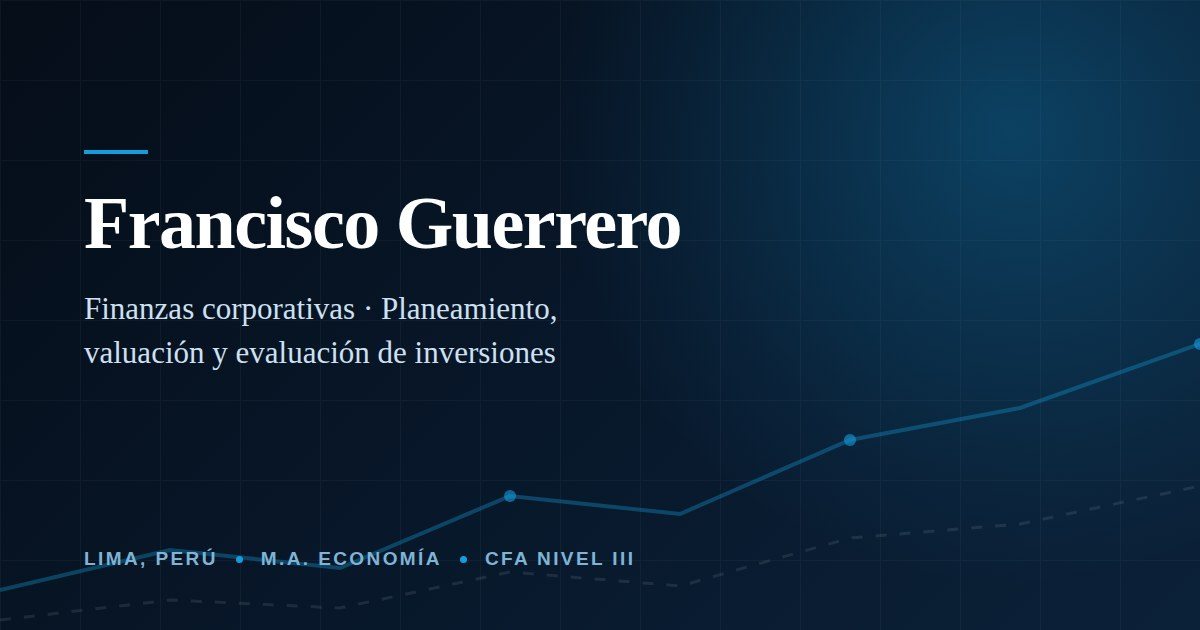
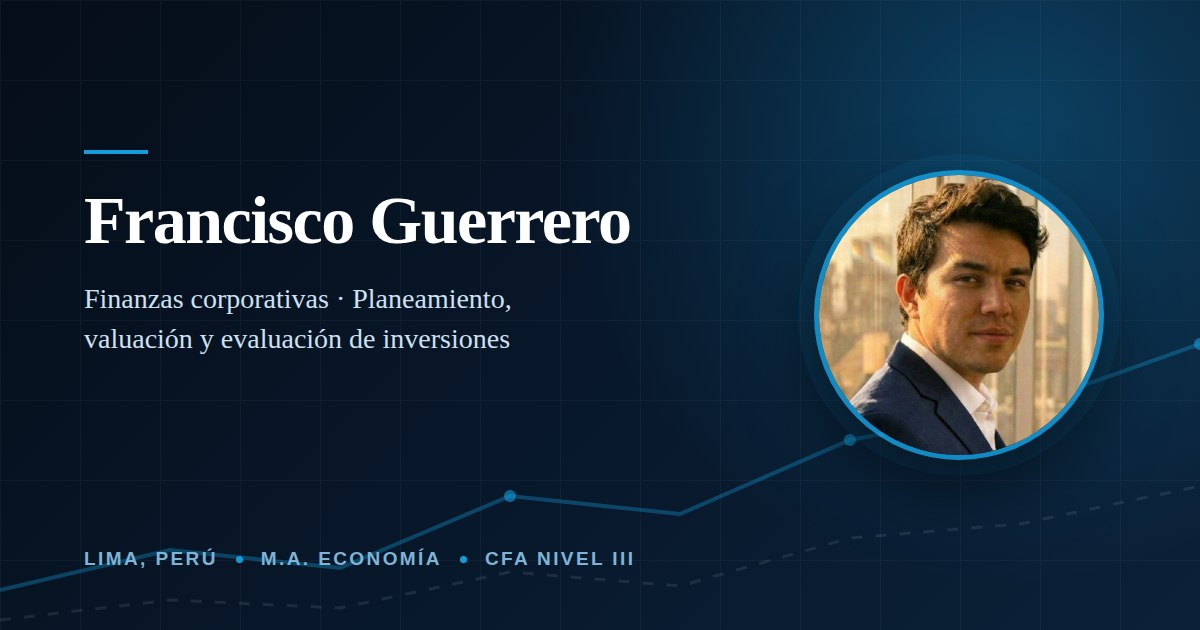
Put the real photo in place of the placeholders
The photo arrived at 400x400, which is exactly what the sidebar avatar
renders from and comfortably above what the profile portrait needs: the
portrait rule sets width only, so a square source lands at 344x344 on
desktop and cover-crops to 366x320 on mobile, with no upscaling and no
distortion at either size. One file serves both slots rather than two
copies of the same bytes. CLS stays at 0.001.

Also derives a 180px home-screen icon from it, adds the photo to the link
preview card next to the name, and fills in the image property the Person
schema was missing. The tab favicon stays the FG monogram: a face is not
legible at 16px.

Removes the two SVG placeholders and the three copies of the upload.

Claude-Session: https://claude.ai/code/session_01SNG9M6PfjWxWYZW65fx1za

Changed region(s): [[0.6783, 0.2714, 0.925, 0.754], [0.0617, 0.4524, 0.4625, 0.6032], [0.0617, 0.3016, 0.5858, 0.3921]]

diff --git a/index.html b/index.html
@@ -35,6 +35,7 @@
 
   <!-- Favicons -->
   <link rel="icon" href="assets/img/favicon.svg" type="image/svg+xml">
+  <link rel="apple-touch-icon" href="assets/img/apple-touch-icon.png">
 
   <!-- Google Fonts -->
   <link rel="preconnect" href="https://fonts.googleapis.com">
@@ -68,6 +69,7 @@
         "givenName": "Francisco",
         "familyName": "Guerrero López",
         "url": "https://fjgl96.github.io/",
+        "image": "https://fjgl96.github.io/assets/img/francisco-guerrero.jpg",
         "email": "mailto:fguerrerolopez@udesa.edu.ar",
         "jobTitle": ["Especialista en Planeamiento Financiero y Control de Gestión", "Director de Contenido y Educación Financiera"],
         "description": "Profesional de finanzas corporativas con más de cuatro años de experiencia en planeamiento financiero, control de gestión, valuación y evaluación de inversiones. M.A. en Economía y candidato de Nivel III del programa CFA.",
@@ -125,7 +127,7 @@
 
       <div class="profile">
         <!-- PLACEHOLDER: reemplaza por tu foto (cuadrada, mínimo 240x240 px) -->
-        <img decoding="async" width="400" height="400" fetchpriority="high" src="assets/img/profile-img.svg" alt="" class="img-fluid rounded-circle">
+        <img decoding="async" width="400" height="400" fetchpriority="high" src="assets/img/francisco-guerrero.jpg" alt="" class="img-fluid rounded-circle">
         <div class="site-name text-light"><a href="index.html">Francisco Guerrero</a></div>
         <div class="social-links mt-3 text-center">
           <a href="https://www.linkedin.com/in/fguerrerol01/" class="linkedin"
@@ -176,7 +178,7 @@
         <div class="row">
           <div class="col-lg-4">
             <!-- PLACEHOLDER: reemplaza por una foto tuya vertical (aprox. 3:4) -->
-            <img decoding="async" width="600" height="800" src="assets/img/about-img.svg" class="img-fluid about-img" alt="Retrato de Francisco Guerrero">
+            <img decoding="async" width="400" height="400" src="assets/img/francisco-guerrero.jpg" class="img-fluid about-img" alt="Retrato de Francisco Guerrero">
           </div>
           <div class="col-lg-8 pt-4 pt-lg-0 content">
             <h3>Del diseño del modelo a la decisión de inversión</h3>

diff --git a/research/banks-fintechs.html b/research/banks-fintechs.html
@@ -13,6 +13,7 @@
   <meta property="og:description" content="El círculo de Salop con la fintech al centro, y las regiones donde el planificador excluye a bancos o a no bancos.">
   <meta property="og:url" content="https://fjgl96.github.io/research/banks-fintechs.html">
   <link rel="icon" href="../assets/img/favicon.svg" type="image/svg+xml">
+  <link rel="apple-touch-icon" href="../assets/img/apple-touch-icon.png">
   <link rel="preconnect" href="https://fonts.googleapis.com">
   <link rel="preconnect" href="https://fonts.gstatic.com" crossorigin>
   <link href="https://fonts.googleapis.com/css?family=Open+Sans:400,700|Raleway:400,600,700|Poppins:400,500,600,700&display=swap" rel="stylesheet">

diff --git a/proyectos/lab-payoff.html b/proyectos/lab-payoff.html
@@ -13,6 +13,7 @@
   <meta property="og:description" content="Cualquier combinación de opciones, con su silueta, sus breakevens y su clasificación calculados solos.">
   <meta property="og:url" content="https://fjgl96.github.io/proyectos/lab-payoff.html">
   <link rel="icon" href="../assets/img/favicon.svg" type="image/svg+xml">
+  <link rel="apple-touch-icon" href="../assets/img/apple-touch-icon.png">
   <link rel="preconnect" href="https://fonts.googleapis.com">
   <link rel="preconnect" href="https://fonts.gstatic.com" crossorigin>
   <link href="https://fonts.googleapis.com/css?family=Open+Sans:400,700|Raleway:400,600,700|Poppins:400,500,600,700&display=swap" rel="stylesheet">

diff --git a/proyectos/lab-montecarlo.html b/proyectos/lab-montecarlo.html
@@ -13,6 +13,7 @@
   <meta property="og:description" content="Una cartera, miles de trayectorias: la probabilidad de llegar a una meta, no el retorno promedio.">
   <meta property="og:url" content="https://fjgl96.github.io/proyectos/lab-montecarlo.html">
   <link rel="icon" href="../assets/img/favicon.svg" type="image/svg+xml">
+  <link rel="apple-touch-icon" href="../assets/img/apple-touch-icon.png">
   <link rel="preconnect" href="https://fonts.googleapis.com">
   <link rel="preconnect" href="https://fonts.gstatic.com" crossorigin>
   <link href="https://fonts.googleapis.com/css?family=Open+Sans:400,700|Raleway:400,600,700|Poppins:400,500,600,700&display=swap" rel="stylesheet">

diff --git a/proyectos/portfolio-suite.html b/proyectos/portfolio-suite.html
@@ -13,6 +13,7 @@
   <meta property="og:description" content="El código determinista toca la plata; los agentes proponen y el código dispone.">
   <meta property="og:url" content="https://fjgl96.github.io/proyectos/portfolio-suite.html">
   <link rel="icon" href="../assets/img/favicon.svg" type="image/svg+xml">
+  <link rel="apple-touch-icon" href="../assets/img/apple-touch-icon.png">
   <link rel="preconnect" href="https://fonts.googleapis.com">
   <link rel="preconnect" href="https://fonts.gstatic.com" crossorigin>
   <link href="https://fonts.googleapis.com/css?family=Open+Sans:400,700|Raleway:400,600,700|Poppins:400,500,600,700&display=swap" rel="stylesheet">

diff --git a/agentes/reporte-ejecutivo.html b/agentes/reporte-ejecutivo.html
@@ -13,6 +13,7 @@
   <meta property="og:description" content="De un PDF de estados financieros a un reporte de directorio en una sola corrida.">
   <meta property="og:url" content="https://fjgl96.github.io/agentes/reporte-ejecutivo.html">
   <link rel="icon" href="../assets/img/favicon.svg" type="image/svg+xml">
+  <link rel="apple-touch-icon" href="../assets/img/apple-touch-icon.png">
   <link rel="preconnect" href="https://fonts.googleapis.com">
   <link rel="preconnect" href="https://fonts.gstatic.com" crossorigin>
   <link href="https://fonts.googleapis.com/css?family=Open+Sans:400,700|Raleway:400,600,700|Poppins:400,500,600,700&display=swap" rel="stylesheet">

diff --git a/proyectos/panel-minero.html b/proyectos/panel-minero.html
@@ -13,6 +13,7 @@
   <meta property="og:description" content="Reporte financiero del sector minero peruano, con datos que se actualizan solos.">
   <meta property="og:url" content="https://fjgl96.github.io/proyectos/panel-minero.html">
   <link rel="icon" href="../assets/img/favicon.svg" type="image/svg+xml">
+  <link rel="apple-touch-icon" href="../assets/img/apple-touch-icon.png">
   <link rel="preconnect" href="https://fonts.googleapis.com">
   <link rel="preconnect" href="https://fonts.gstatic.com" crossorigin>
   <link href="https://fonts.googleapis.com/css?family=Open+Sans:400,700|Raleway:400,600,700|Poppins:400,500,600,700&display=swap" rel="stylesheet">

diff --git a/agentes/visualizacion-animada.html b/agentes/visualizacion-animada.html
@@ -13,6 +13,7 @@
   <meta property="og:description" content="Gráficos animados con acabado editorial, listos para grabar y publicar.">
   <meta property="og:url" content="https://fjgl96.github.io/agentes/visualizacion-animada.html">
   <link rel="icon" href="../assets/img/favicon.svg" type="image/svg+xml">
+  <link rel="apple-touch-icon" href="../assets/img/apple-touch-icon.png">
   <link rel="preconnect" href="https://fonts.googleapis.com">
   <link rel="preconnect" href="https://fonts.gstatic.com" crossorigin>
   <link href="https://fonts.googleapis.com/css?family=Open+Sans:400,700|Raleway:400,600,700|Poppins:400,500,600,700&display=swap" rel="stylesheet">

diff --git a/agentes/briefs-visuales.html b/agentes/briefs-visuales.html
@@ -13,6 +13,7 @@
   <meta property="og:description" content="Instrucciones de imagen con criterio financiero para generadores como Gemini.">
   <meta property="og:url" content="https://fjgl96.github.io/agentes/briefs-visuales.html">
   <link rel="icon" href="../assets/img/favicon.svg" type="image/svg+xml">
+  <link rel="apple-touch-icon" href="../assets/img/apple-touch-icon.png">
   <link rel="preconnect" href="https://fonts.googleapis.com">
   <link rel="preconnect" href="https://fonts.gstatic.com" crossorigin>
   <link href="https://fonts.googleapis.com/css?family=Open+Sans:400,700|Raleway:400,600,700|Poppins:400,500,600,700&display=swap" rel="stylesheet">

diff --git a/agentes/investigacion-redaccion.html b/agentes/investigacion-redaccion.html
@@ -13,6 +13,7 @@
   <meta property="og:description" content="De un hecho financiero a un texto con tesis, cifras y fuentes.">
   <meta property="og:url" content="https://fjgl96.github.io/agentes/investigacion-redaccion.html">
   <link rel="icon" href="../assets/img/favicon.svg" type="image/svg+xml">
+  <link rel="apple-touch-icon" href="../assets/img/apple-touch-icon.png">
   <link rel="preconnect" href="https://fonts.googleapis.com">
   <link rel="preconnect" href="https://fonts.gstatic.com" crossorigin>
   <link href="https://fonts.googleapis.com/css?family=Open+Sans:400,700|Raleway:400,600,700|Poppins:400,500,600,700&display=swap" rel="stylesheet">

diff --git a/proyectos/wacc-lab.html b/proyectos/wacc-lab.html
@@ -13,6 +13,7 @@
   <meta property="og:description" content="Calculadora de costo de capital bottom-up con el método de Damodaran.">
   <meta property="og:url" content="https://fjgl96.github.io/proyectos/wacc-lab.html">
   <link rel="icon" href="../assets/img/favicon.svg" type="image/svg+xml">
+  <link rel="apple-touch-icon" href="../assets/img/apple-touch-icon.png">
   <link rel="preconnect" href="https://fonts.googleapis.com">
   <link rel="preconnect" href="https://fonts.gstatic.com" crossorigin>
   <link href="https://fonts.googleapis.com/css?family=Open+Sans:400,700|Raleway:400,600,700|Poppins:400,500,600,700&display=swap" rel="stylesheet">

diff --git a/agentes/index.html b/agentes/index.html
@@ -13,6 +13,7 @@
   <meta property="og:description" content="Cinco flujos de trabajo con IA aplicados al análisis financiero.">
   <meta property="og:url" content="https://fjgl96.github.io/agentes/index.html">
   <link rel="icon" href="../assets/img/favicon.svg" type="image/svg+xml">
+  <link rel="apple-touch-icon" href="../assets/img/apple-touch-icon.png">
   <link rel="preconnect" href="https://fonts.googleapis.com">
   <link rel="preconnect" href="https://fonts.gstatic.com" crossorigin>
   <link href="https://fonts.googleapis.com/css?family=Open+Sans:400,700|Raleway:400,600,700|Poppins:400,500,600,700&display=swap" rel="stylesheet">
